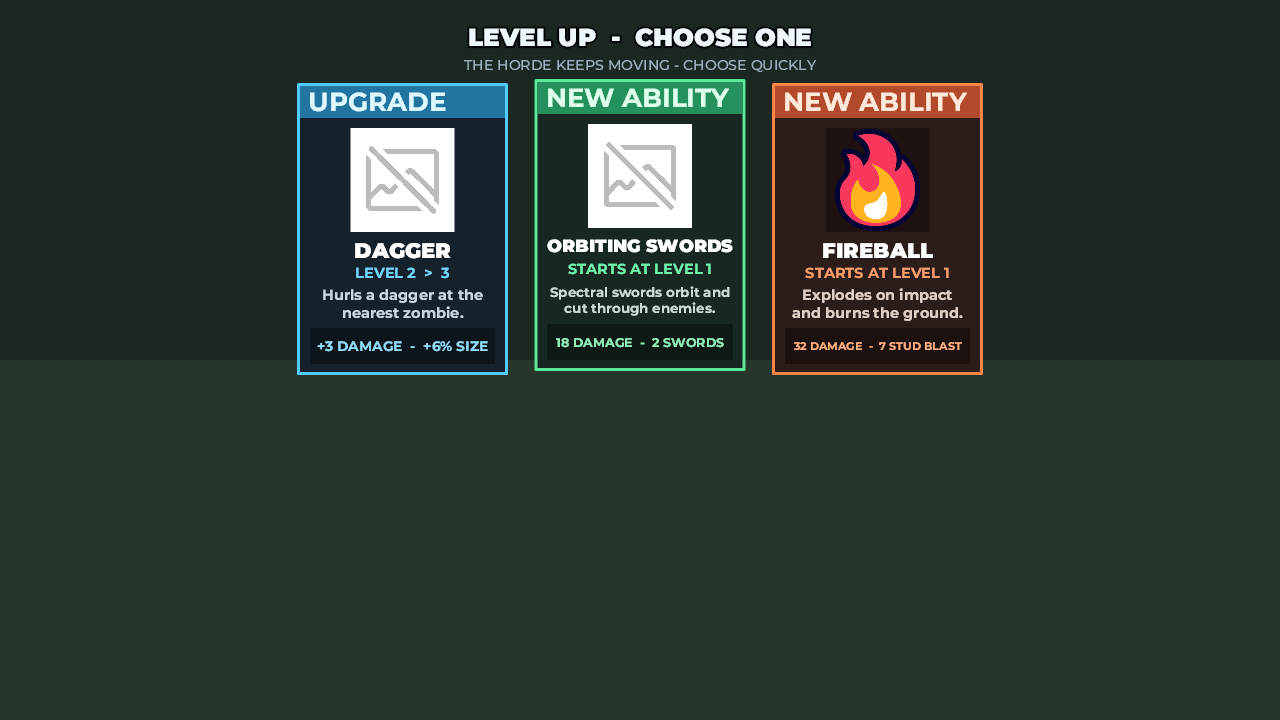
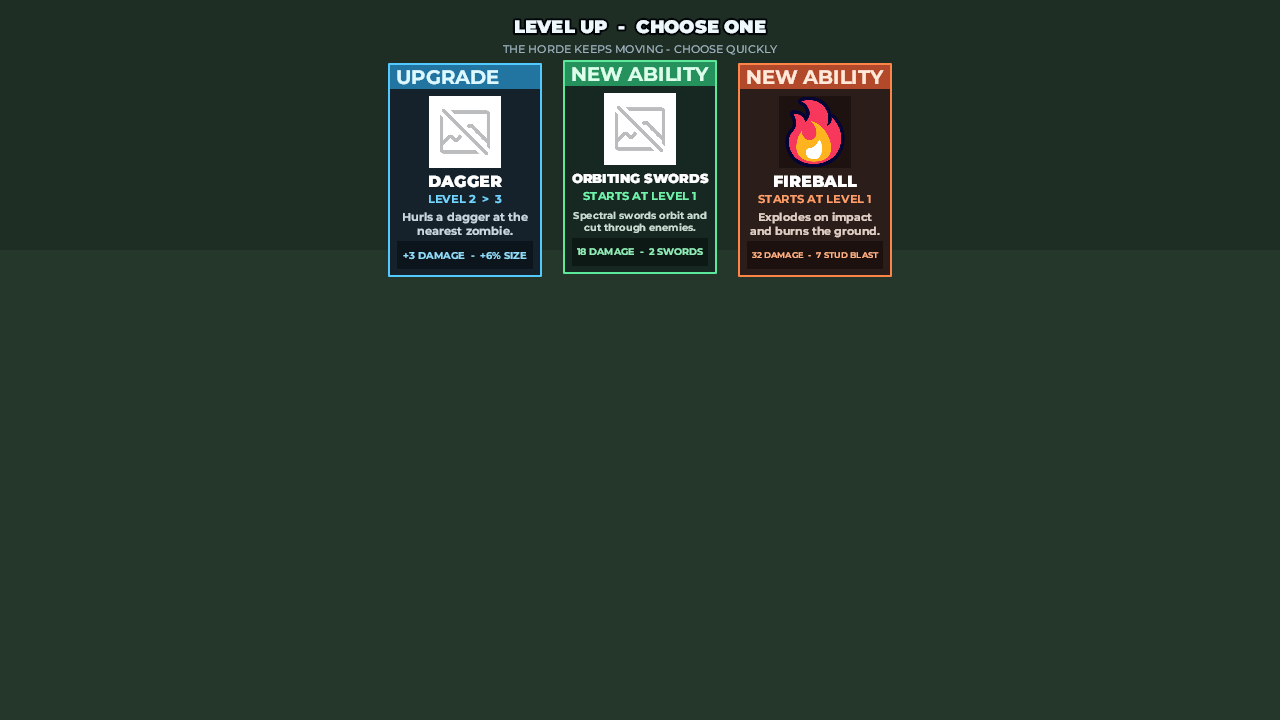
Auto backup 25/09/2026, 3:36:21 pm

Changed region(s): [[0.2188, 0.0, 0.7812, 0.5194]]

diff --git a/Index.md b/Index.md
@@ -139,7 +139,7 @@ These modules provide shared game configuration, persistent player-data defaults
 | --- | --- |
 | `src/UI/App.lua` | Composes the neutral `App` ScreenGui, untouched party Creation Menu, reactive in-match HUD, and retained generic overlays. |
 | `src/UI/HUD/RunHUD.lua` | Renders the revamped game HUD: permanent coins, animated run XP, ability levels/cooldowns, and hover/tap tooltips. |
-| `src/UI/HUD/LevelUpChoices.lua` | Renders compact fast ability reels with sequential punch/expand, subtle screen shading, camera/FOV impact feedback, and one server-validated choice without pausing gameplay. |
+| `src/UI/HUD/LevelUpChoices.lua` | Sequentially consumes every authoritative level-up set in a small top-screen reel strip with layered sound, sparkle/ring bursts, punch/expand, minimal shading, and camera/FOV feedback. |
 | `src/UI/HUD/GameOver.lua` | Renders the defeated player's authoritative run summary and live 15-second lobby-return countdown while surviving teammates continue. |
 | `src/UI/UIOrigin.lua` | Mounts the Vide application once into LocalPlayer.PlayerGui. |
 | `src/UI/App.story.lua` | Exposes the app component for UI story previews. |

diff --git a/src/UI/AGENTSCREATINGUI.md b/src/UI/AGENTSCREATINGUI.md
@@ -290,4 +290,4 @@ Verify typography against the production component path: explicitly set required
 Also inspect good existing production UI under `src/UI/` when it is relevant to the task.
 
 Do not copy obsolete, unused, or visibly inconsistent UI merely because it exists in the codebase.
-Make sure to avoid unnesscecary rendering. If you arent greatly altering the visuals of something, do not render.
+Make sure to avoid unnesscecary rendering. If you arent greatly altering the visuals of something, do not render.a
